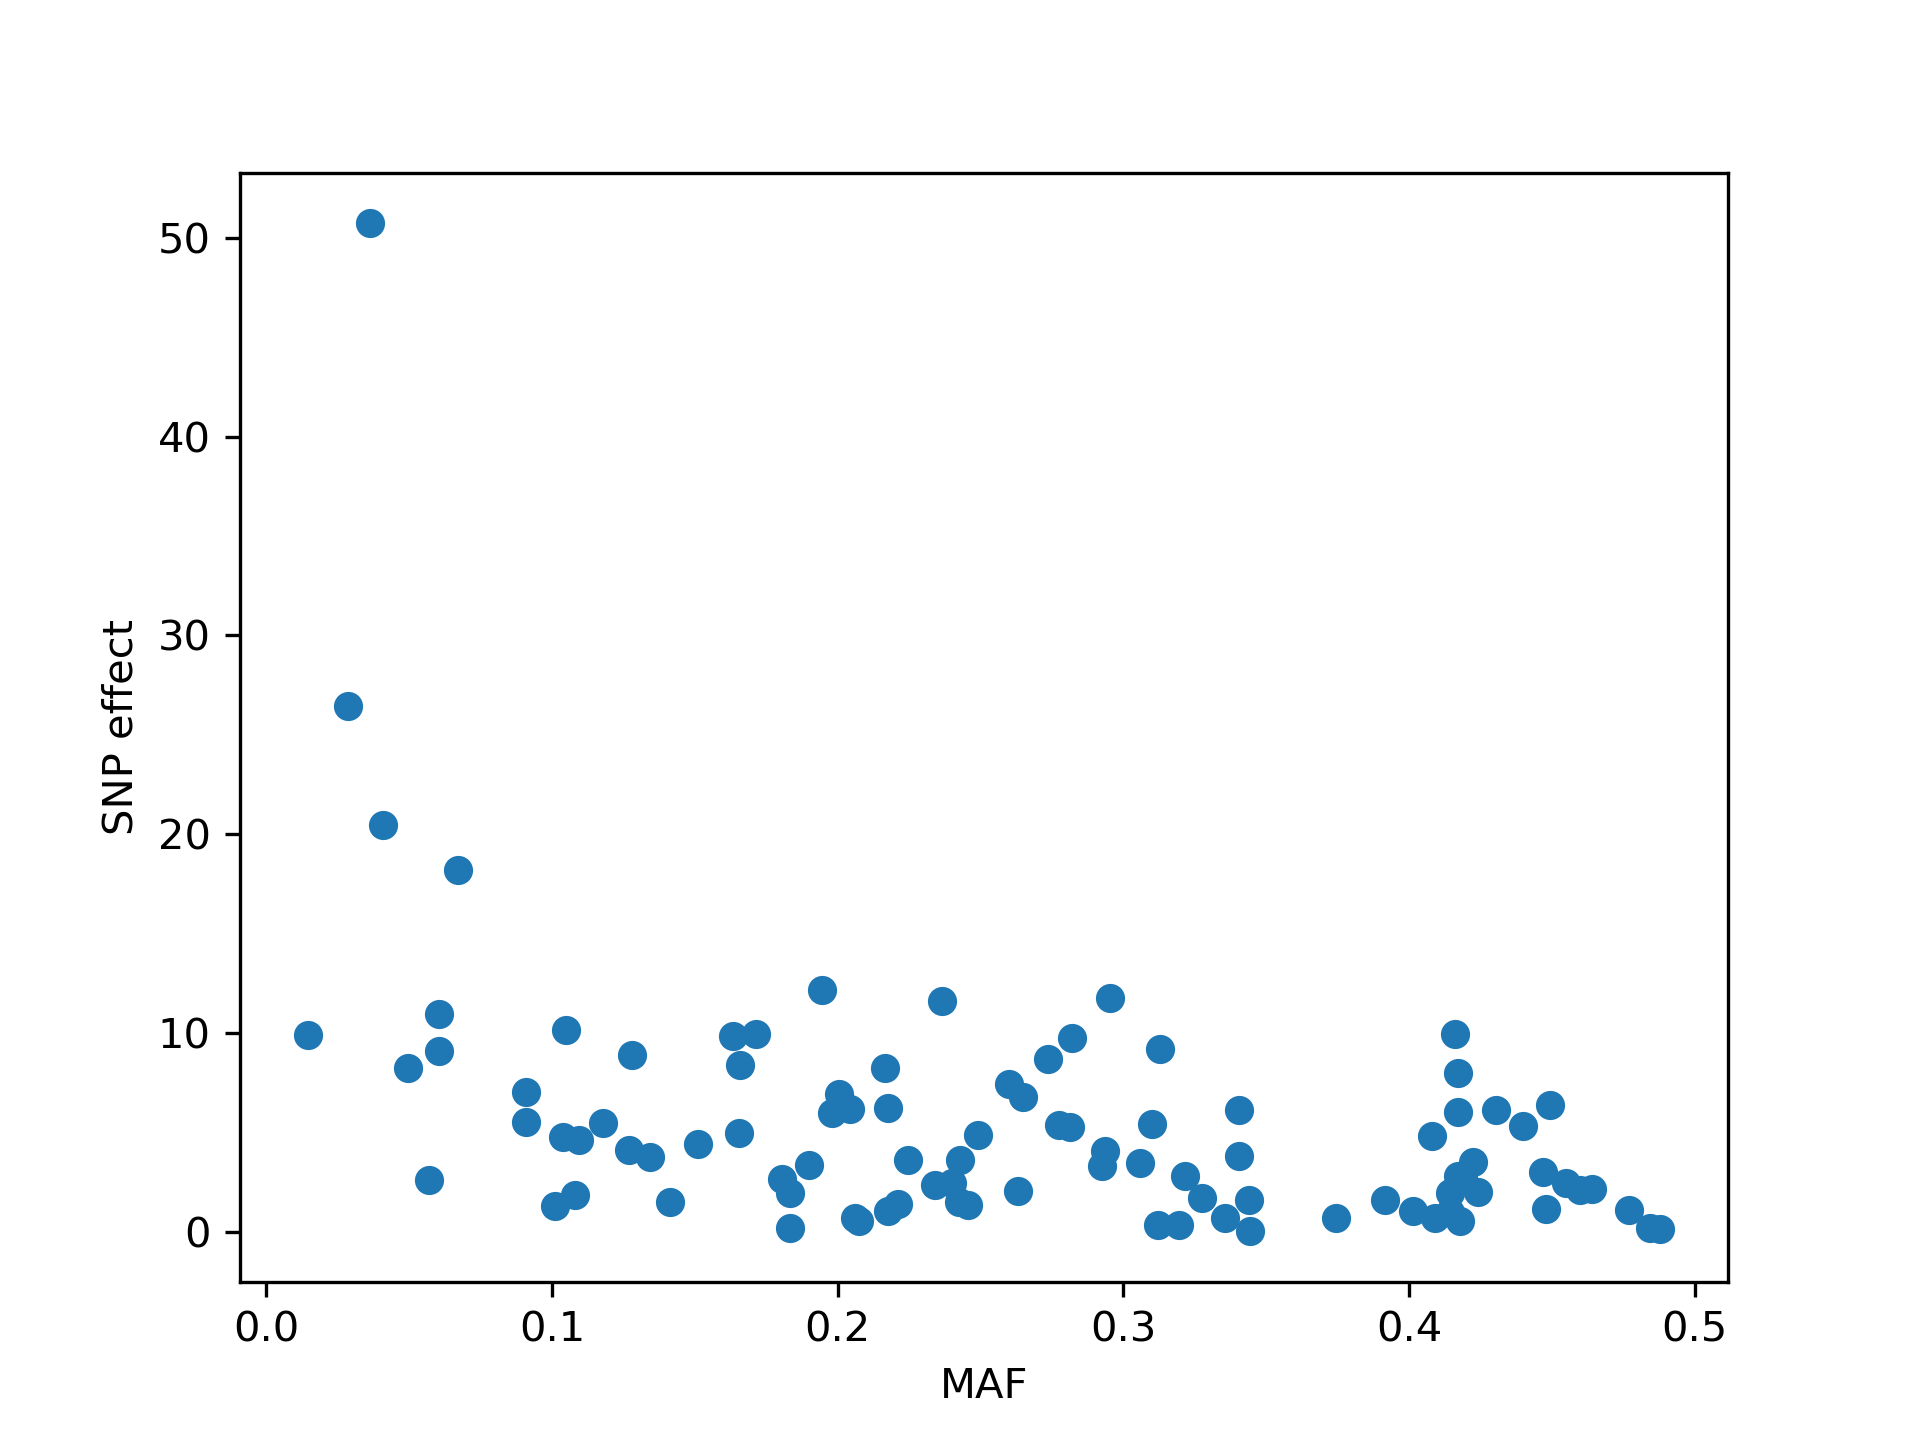
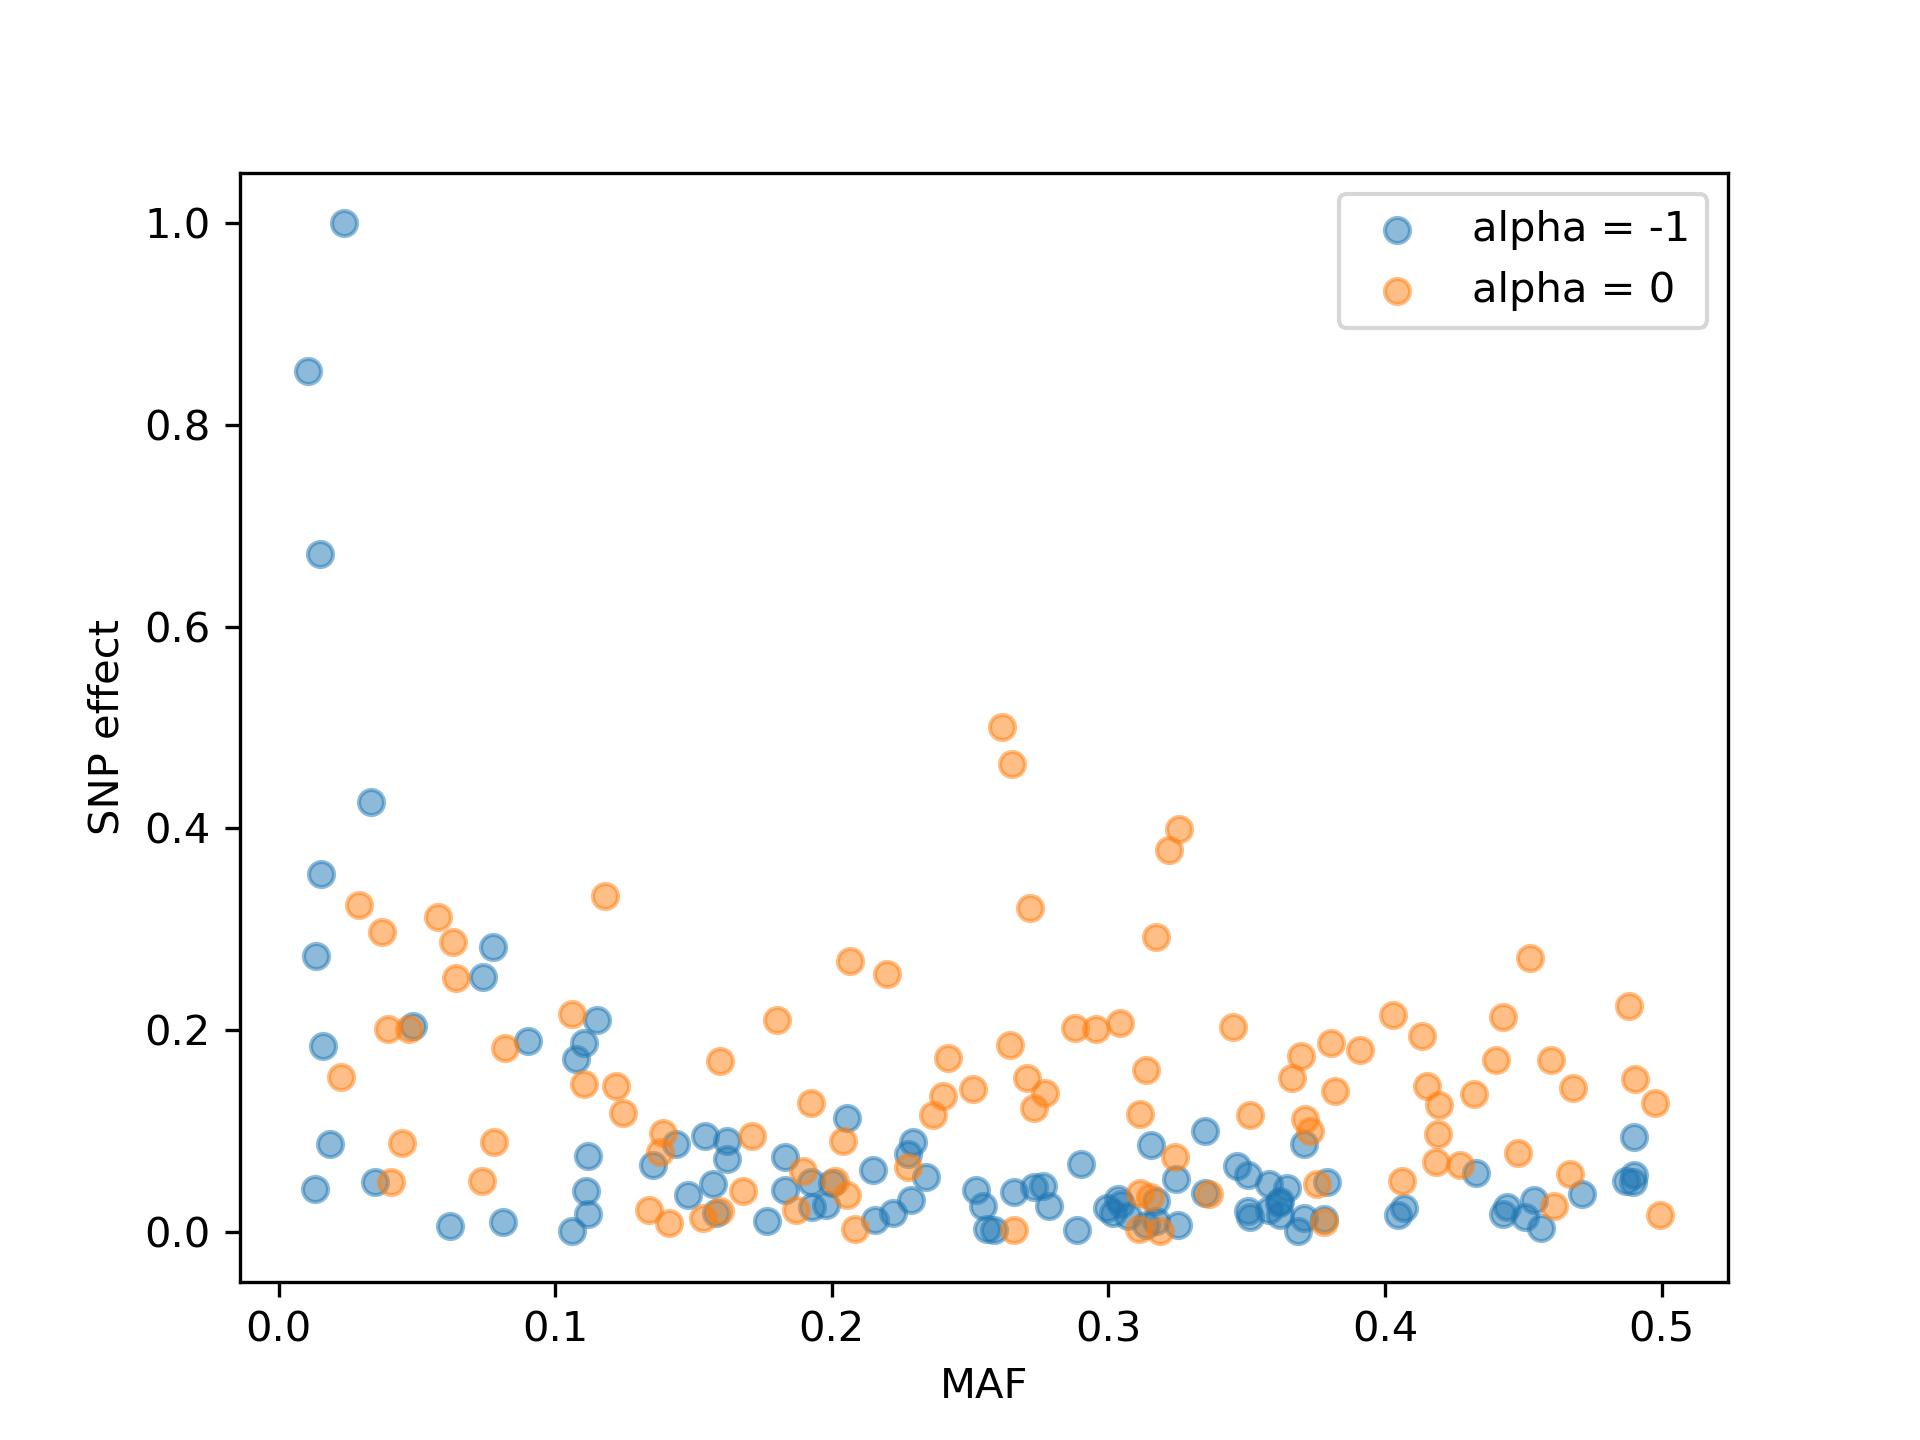
Added new testing, simulations seem are a little off because for C1S1, both estimators agree on 57% instead of 50%. Fixe this, then hopefully this will fix it for multiple clusters

diff --git a/tests/test_simNEst/test_simNEstC2S25.py b/tests/test_simNEst/test_simNEstC2S25.py
@@ -1,0 +1,52 @@
+from AdjHE.estimation.GCTA_wrapper import GCTA, gcta
+from AdjHE.estimation.all_estimators import Basu_estimation
+from Simulator.simulation_helpers.Sim_generator import pheno_simulator
+import numpy as np
+import pytest
+
+#%% Testing for Multiple sites and single cluster
+@pytest.fixture
+def C2S25() :
+    rng = np.random.default_rng(12)
+    sim = pheno_simulator(rng = rng, nsubjects= 1000)
+    sim.sim_sites(nsites =25)
+    sim.sim_pops(nclusts= 2)
+    sim.sim_genos()
+    sim.sim_gen_effects()
+    sim.sim_covars()
+    sim.sim_pheno(h2 = 0.5)
+    est = Basu_estimation()
+    est.GRM = sim.GRM
+    est.df = sim.df
+    return est
+
+@pytest.mark.C2S25
+def test_simNGCTA(C2S25) :
+    est = C2S25
+    result = est.estimate(mpheno = ["Y0"], npc = [0,1,2], Method = "GCTA", fixed_effects= ["Xc", "abcd_site"])
+    assert result["h2"][0] == pytest.approx(0.5, abs = 0.05)
+
+@pytest.mark.C2S25
+def test_simNAdjHE(C2S25) :
+    est = C2S25
+    result = est.estimate(mpheno = ["Y0"], npc = [0,1], Method = "AdjHE", fixed_effects= ["Xc", "abcd_site"])
+    assert result["h2"][0] == pytest.approx(0.5, abs = 0.05)
+
+@pytest.mark.C2S25
+def test_simNAdjHERE(C2S25) :
+    est = C2S25
+    result = est.estimate(mpheno = ["Y0"], npc = [0,1], Method = "AdjHE", random_groups= "abcd_site" fixed_effects= ["Xc"])
+    assert result["h2"][0] == pytest.approx(0.5, abs = 0.05)
+
+@pytest.mark.C2S25
+def test_simNSWD(C2S25) :
+    est = C2S25
+    result = est.estimate(mpheno = ["Y0"], npc = [0,1], Method = "SWD",random_groups = "abcd_site", fixed_effects= ["Xc"])
+    assert result["h2"][0] == pytest.approx(0.5, abs = 0.05)
+
+@pytest.mark.C2S25
+def test_simNSWD(C2S25) :
+    est = C2S25
+    result = est.estimate(mpheno = ["Y0"], npc = [0,1], Method = "Combat",random_groups = "abcd_site", fixed_effects= ["Xc"])
+    assert result["h2"][0] == pytest.approx(0.5, abs = 0.05)
+

diff --git a/tests/test_simNEst/test_simNEstC1S1.py b/tests/test_simNEst/test_simNEstC1S1.py
@@ -23,11 +23,31 @@ def C1S1() :
 
 @pytest.mark.C1S1
 def test_simNGCTA(C1S1) :
-    result = C1S1.estimate(mpheno = ["Y0"], npc = [0], Method = "GCTA", fixed_effects= ["Xc"])
+    est = C1S1
+    result = est.estimate(mpheno = ["Y0"], npc = [0], Method = "GCTA", fixed_effects= ["Xc"])
     assert result["h2"][0] == pytest.approx(0.5, abs = 0.05) 
 
 @pytest.mark.C1S1
 def test_simAdjHE(C1S1):
-    result = C1S1.estimate(mpheno = ["Y0"], npc = [0], Method = "AdjHE", fixed_effects= ["Xc"])
+    est = C1S1
+    result = est.estimate(mpheno = ["Y0"], npc = [0], Method = "AdjHE", fixed_effects= ["Xc"])
     assert result["h2"][0] == pytest.approx(0.5, abs = 0.05) 
+
+#%%
+@pytest.mark.C1S1_thorough
+def test_thoroughC1S1(): 
+    rng = np.random.default_rng(12)
+    h2s = np.zeros(25)
+    for i in range(25) : 
+        sim = pheno_simulator(rng = rng, nsubjects= 250)
+        sim.sim_sites(nsites =1)
+        sim.sim_pops(nclusts= 1)
+        sim.sim_genos()
+        sim.sim_gen_effects()
+        sim.sim_covars()
+        sim.sim_pheno(h2 = 0.5)
+        est = Basu_estimation()
+        est.GRM = sim.GRM
+        est.df = sim.df
+        h2s[i]= est.estimate(mpheno = ["Y0"], npc = [0], Method = "AdjHE", fixed_effects= ["Xc"])["h2"][0]
 

diff --git a/tests/test_simNEst/test_simNEstC2S1.py b/tests/test_simNEst/test_simNEstC2S1.py
@@ -1,0 +1,34 @@
+from AdjHE.estimation.GCTA_wrapper import GCTA, gcta
+from AdjHE.estimation.all_estimators import Basu_estimation
+from Simulator.simulation_helpers.Sim_generator import pheno_simulator
+import numpy as np
+import pytest
+
+#%% Testing for Multiple sites and single cluster
+@pytest.fixture
+def C1S25() :
+    rng = np.random.default_rng(12)
+    sim = pheno_simulator(rng = rng, nsubjects= 1000)
+    sim.sim_sites(nsites =1)
+    sim.sim_pops(nclusts= 2)
+    sim.sim_genos()
+    sim.sim_gen_effects()
+    sim.sim_covars()
+    sim.sim_pheno(h2 = 0.5)
+    est = Basu_estimation()
+    est.GRM = sim.GRM
+    est.df = sim.df
+    return est
+
+@pytest.mark.C1S25
+def test_simNGCTA(C1S25) :
+    est = C1S25
+    result = est.estimate(mpheno = ["Y0"], npc = [0,1,2], Method = "GCTA", fixed_effects= ["Xc"])
+    assert result["h2"][0] == pytest.approx(0.5, abs = 0.05)
+
+@pytest.mark.C1S25
+def test_simNAdjHE(C1S25) :
+    est = C1S25
+    result = est.estimate(mpheno = ["Y0"], npc = [0,1,2], Method = "AdjHE", fixed_effects= ["Xc"])
+    assert result["h2"][0] == pytest.approx(0.5, abs = 0.05)
+

diff --git a/Simulator/pub_viz.py b/Simulator/pub_viz.py
@@ -16,11 +16,22 @@ plt.clf()
 #%% vizualize example simulated effects
 
 sim = pheno_simulator(nsubjects= 1000, nSNPs = 1000)
-sim.full_sim()
+sim.full_sim(alpha = -1)
+sim2 = pheno_simulator(nsubjects= 1000, nSNPs = 1000)
+sim2.full_sim(alpha = 0)
+
 
 MAF = 0.5 - abs(0.5 - sim.genotypes[:, sim.causals].mean(axis= 0)/2)
-plt.scatter(x = MAF, y=  abs(sim.SNP_effects))
+EFF =abs(sim.SNP_effects)
+EFF = EFF/max(EFF)
+EFF2 = abs(sim2.SNP_effects)
+EFF2=  EFF2/max(EFF2) * 0.5
+MAF2 = 0.5 - abs(0.5 - sim2.genotypes[:, sim2.causals].mean(axis= 0)/2)
+plt.scatter(x = MAF, y=  EFF, label = "alpha = -1",alpha = 0.5)
+plt.scatter(x = MAF2, y=  EFF2, label = "alpha = 0", alpha = 0.5)
+plt.legend() 
 plt.xlabel("MAF")
 plt.ylabel("SNP effect")
 plt.savefig(fname = "docs/Papers/Toolbox_paper/figures/simmedSNPeffects.png", dpi = 300, format = "png")
+
 

diff --git a/docs/Papers/Toolbox_paper/sn-article.tex b/docs/Papers/Toolbox_paper/sn-article.tex
@@ -127,7 +127,7 @@ Additionally, the MASH toolbox offers the capability to simulate admixed populat
 
 \begin{figure}
   \begin{center}
-    \includegraphics[width=0.95\textwidth]{figures/SNP_effects.png} \\ 
+    \includegraphics[width=0.95\textwidth]{figures/simmedSNPeffects.png} \\ 
   \end{center}
   \caption{figures}
   \label{fig:all_figures}
